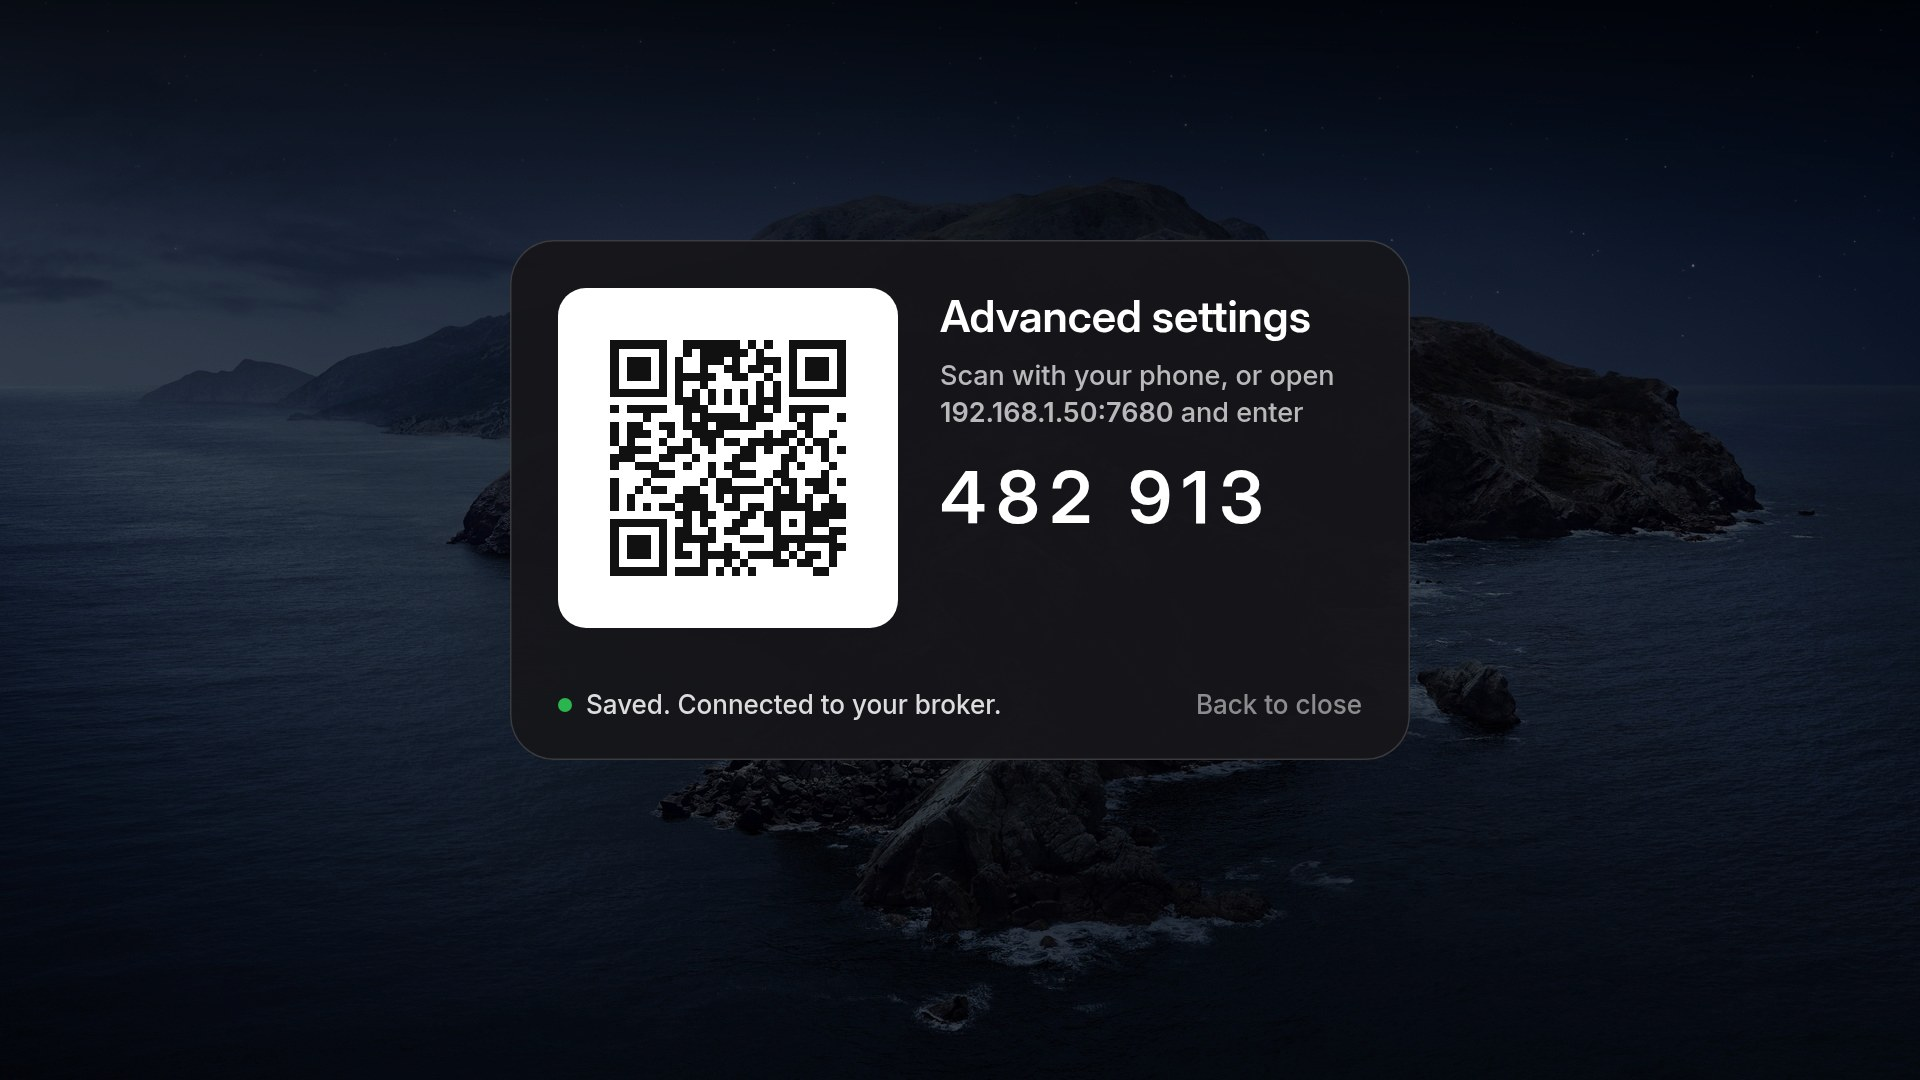
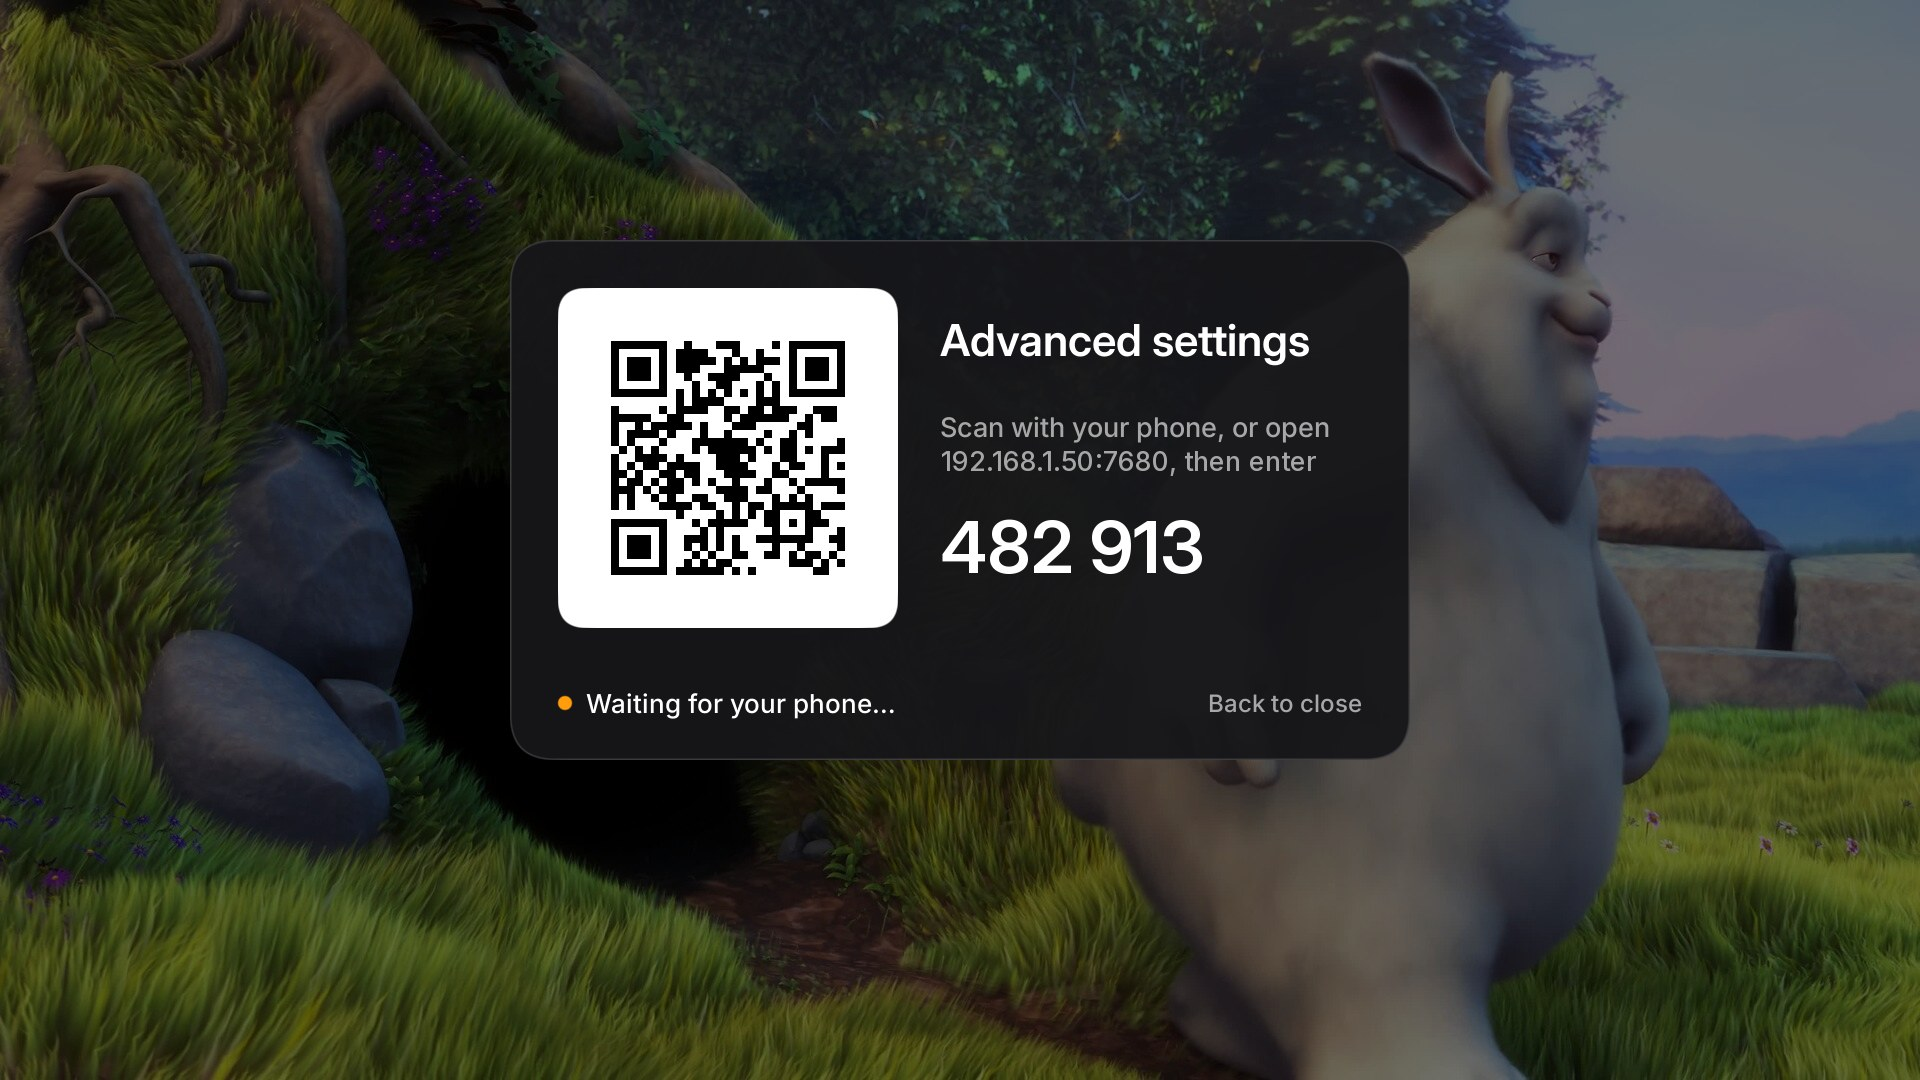
Docs: new screenshots of SilentGlass 1.2.0, no Apple artwork
Fresh captures from the TV (bar, Inputs, Controls, Info, a doorbell notification, the same card at 50%
transparency, the setup sheet) composited over Big Buck Bunny stills (CC BY 3.0 Blender Foundation) instead of
the macOS wallpaper, with the premultiplied-alpha dumps converted properly. New: the phone page (dark mode, a
local bridge with stand-in settings). Setup sheet address, QR and code are stand-ins. Backdrop shot removed (it
showed the Apple wallpaper). README, device README and ha-bridge.md show them; NOTICE credits the stills.

diff --git a/devices/s90d/ha-bridge.md b/devices/s90d/ha-bridge.md
@@ -34,6 +34,9 @@ an app), as a tvOS-style banner from SilentGlass Home - with the picture (a Frig
 and message. The bridge speaks the protocol of the *Notifications for Android TV* app, so the TV is added with Home
 Assistant's built-in integration and every existing automation works unchanged:
 
+<p><img src="../../docs/screenshots/s90d-notice.jpg" width="49%" alt="A doorbell notification with its picture">
+<img src="../../docs/screenshots/s90d-notice-transparent.jpg" width="49%" alt="The same card at 50% transparency"></p>
+
 1. Settings > Devices & services > Add integration > **Notifications for Android TV / Fire TV**, host = the TV's
    address. This makes a `notify.android_tv_fire_tv_<address>` action (and a notify entity).
 2. Use it directly, or put it in a notify group (`platform: group`) that your automations already target - e.g. the
@@ -137,6 +140,8 @@ on the same network (or open the address shown), then type the code - the QR nev
 Save writes the owner-only config, reconnects, and the sheet on the TV shows the result. The page only works while
 the sheet is open: Back on the TV, 10 minutes, or 8 wrong codes close it. It is plain HTTP on your LAN, like the TV's
 own setup flows; the code keeps others on the network out while it is open.
+
+![The phone page: home screen, notifications, Home Assistant](../../docs/screenshots/s90d-phone-settings.jpg)
 
 ## Install
 

diff --git a/devices/s90d/README.md b/devices/s90d/README.md
@@ -10,7 +10,7 @@ SilentGlass-Tizen's tested TV: **SHIELD TV Pro** on HDMI 3 (through a Q990D soun
   not proof of the current state: read the TV's state and hashes before acting, and never run an installer just
   because it exists.
 
-## SilentGlass (v43a)
+## SilentGlass
 
 Native NUI app installed in place of `com.samsung.tv.bixby-promotion` and set as the Home handler
 (`db/appfw/home_appid`); power-on still goes to the last input (`startup_appid=org.tizen.tv-viewer`).
@@ -44,7 +44,8 @@ playing; nothing touches the video plane.
   capsule focus, SF Symbols-style icons (`tools/make_symbols.py`). `tools/overlay_mockup.py OUTDIR` renders the same
   screens 1:1 on the Pi before anything goes to the TV.
 
-![Info](../../docs/screenshots/s90d-info.jpg)
+<p><img src="../../docs/screenshots/s90d-overlay-inputs.jpg" width="49%" alt="Inputs">
+<img src="../../docs/screenshots/s90d-info.jpg" width="49%" alt="Info"></p>
 
 ### Settings
 

diff --git a/NOTICE.md b/NOTICE.md
@@ -28,5 +28,8 @@ trademarks remain subject to their owners' terms. The repository and its contrib
 Samsung, NVIDIA, Nintendo, Sony, Microsoft, Amazon, Apple, Google, the Thread Group or any streaming service.
 
 The S90D photo wallpaper (macOS Catalina Day/Night) is Apple artwork: it is not distributed, and
-`tools/make_wallpapers.py` builds it from images you supply. The screenshots in `docs/screenshots/` show it as
-rendered on the owner's TV; remove or replace them before publishing this repository.
+`tools/make_wallpapers.py` builds it from images you supply; the screenshots don't show it.
+
+The screenshots in `docs/screenshots/` are the TV's UI layer (the TV doesn't capture video) over stills from *Big
+Buck Bunny*, © Blender Foundation (peach.blender.org), CC BY 3.0, via Wikimedia Commons. The phone page is a
+local bridge with stand-in settings. Addresses, the QR code and the setup code are stand-ins.

diff --git a/README.md b/README.md
@@ -27,6 +27,14 @@ radio joins your smart-home network.
 
 ![Controls over the picture](docs/screenshots/s90d-overlay-controls.jpg)
 
+<p><img src="docs/screenshots/s90d-overlay-inputs.jpg" width="49%" alt="Inputs, with a green dot on every device that is on">
+<img src="docs/screenshots/s90d-notice.jpg" width="49%" alt="A doorbell notification over the picture"></p>
+
+![Advanced settings on a phone](docs/screenshots/s90d-phone-settings.jpg)
+
+<sub>The TV can't capture its own video, so each screenshot is the TV's real UI layer over a still from *Big Buck
+Bunny* (© Blender Foundation, CC BY 3.0). Addresses and codes are stand-ins.</sub>
+
 More screenshots and how it works: [devices/s90d](devices/s90d/README.md). Guides:
 [Home Assistant](devices/s90d/ha-bridge.md), [Thread](devices/s90d/thread-border-router.md).
 
